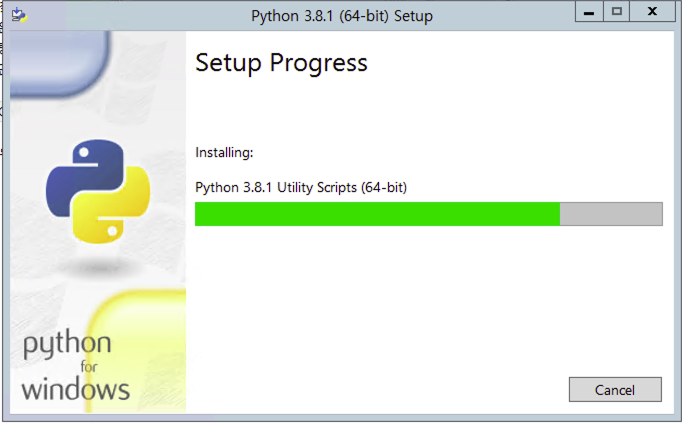
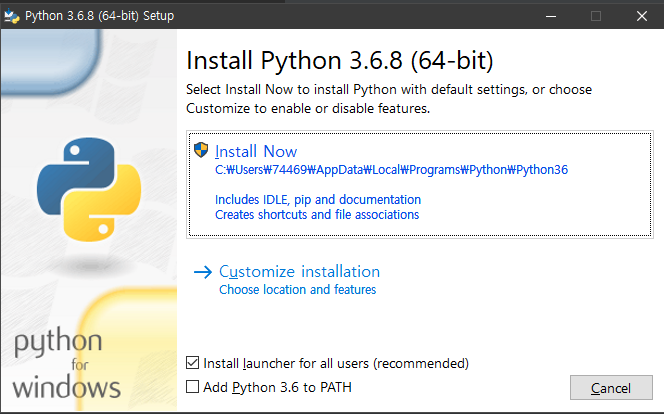
posting tensorflow 최초 반영

diff --git a/_posts/2020-02-05-ai-tensorflow001.md b/_posts/2020-02-05-ai-tensorflow001.md
@@ -1,24 +1,29 @@
 ---
-title: "TensorFlow - 01.구동환경"
+title: "TensorFlow2 - 01.설치"
 date: 2020-02-05 00:00:00 +0800
 categories: tensorflow
 sidebar:
   nav: "pe-sidebar"
 ---
-## 1. official site
-- 설치 관련 환경 체크 위함
-- [https://www.tensorflow.org/install/source-windows](https://www.tensorflow.org/install/source-windows)
+TensorFlow 활용을 위한 설치 가이드
 
-![tensorflow](/assets/images/tensorflow001.png)
+## 1. Environment
+TensorFlow2는 설치 환경 확인이 중요
+- Python 3.5-3.7
+- Window 7 or later
+- macOS 10.12.6 (Sierra) or later (no GPU support) <br>
 
-- CPU 와 GPU 버전에 맞는 Python 버전을 확인하고 설치하는 것이 관건
+참고: [https://www.tensorflow.org/install?hl=ko](https://www.tensorflow.org/install?hl=ko)
 
-## 2. Python
+## 2. Install Python
+
 - Window용 Python 3.5.x 또는 Python 3.6.x 64bit를 설치 [https://www.python.org/downloads/windows/](https://www.python.org/downloads/windows/)
-- 하지만 Pyhton.org의 Stable Releases는 3.8.1이라서 Python 3.8.1 다운로드 <br>
+- Pyhton.org의 Stable Releases는 3.8.1이지만 TensorFlow 호환성을 위해 Python 3.6.8 다운로드 <br>
+
 ![tensorflow](/assets/images/tensorflow002.png)
 
-- Window에 Python3.8.1 64bit 설치 화면
+- Window에 Python3.8.1 64bit 설치
+
 ![tensorflow](/assets/images/tensorflow003.png)
 
 - Python 버전 확인
@@ -29,9 +34,111 @@ Python 3.6.8
 C:\Windows\system32>
 ```
 
+<br>
+TensorFlow 설치 방식은 여러가지가 있습니다. 다음으로 TensorFlow 설치 방식 중 pip 활용 방식과 Anaconda 활용 방식을
+설명합니다.
+<br>
 
-## 3. IDE
-- Intellij
-- Python Plugin 설치
+## 3. Install TensorFlow2 - pip
+- 아래 참고 URL에 명시되어 있는 pip 명령어를 차례대로 수행
+
+![tensorflow](/assets/images/tensorflow007.png) <br>
+참고: [https://www.tensorflow.org/install?hl=ko](https://www.tensorflow.org/install?hl=ko)
+
+- pip upgrade 수행
+
+![tensorflow](/assets/images/tensorflow005.png)
+
+- pip 명령어를 통해 TensorFlow2 설치
+
+![tensorflow](/assets/images/tensorflow006.png)
+
+## 4. Install TensorFlow2 - Anaconda
+
+### 4.1 Install Anaconda
+- [Anaconda 다운로드](https://www.anaconda.com/distribution/)
+
+- Python 3.7 version 선택
+
+![tensorflow](/assets/images/tensorflow008.png)
+
+- 다운로드 된 .exe 파일을 **관리자 권한으로 실행**
+
+![tensorflow](/assets/images/tensorflow009.png)
+
+- 설치가 완료되면 Anaconda Prompt를 **관리자 권한으로 실행**
+
+![tensorflow](/assets/images/tensorflow010.png)
+
+### 4.2 Install TensorFlow2
+
+Anaconda 활용한 TensorFlow 설치는 3단계로 구성됨
+
+- 1단계: pip 업데이트
+
+```sh 
+python -m pip install --upgrade pip
+```
+
+![tensorflow](/assets/images/tensorflow011.png)
+
+- 2단계: tensorflow 생성
+
+```sh 
+conda create -n tensorflow python=3.6
+```
+
+![tensorflow](/assets/images/tensorflow012.png)
+
+- 3단계: tensorflow 활성화
+
+```sh
+activate tensorflow
+
+#프롬프트가 'tensorflow'로 바뀜
+(tensorflow) > pip install tensorflow
+```
+
+![tensorflow](/assets/images/tensorflow013.png)
+
+참고: [윈도우에 TensorFlow를 설치하는 쉬운 방법](https://brunch.co.kr/@mapthecity/15)
+
+## 5. Test TensorFlow
+- 다음 샘플 코드를 통해 Tensorflow 정상 동작 확인
+
+```sh 
+import tensorflow as tf
+with tf.compat.v1.Session() as sess:
+  h = tf.constant("Hello")
+  w = tf.constant("World")
+  hw = h + w
+  ans = sess.rin(hw)
+  print(ans)
+```
+
+{: .notice--warning}
+***Note*** 위 스크립트 작성시 with tf.compat.v1.Session() as sess: 다음 라인부터 반드시
+들여쓰기를 지켜야 합니다. 그렇지 않으면 "IndentationError: expected an indented block
+에러가 발생합니다.
+{: .notice--warning}
 
 
+- Tensorflow 샘플 코드 동작 중 아래 에러 발생시 조치 필요
+
+```sh
+ImportError: Could not find the DLL(s) 'msvcp140.dll or msvcp140_1.dll' ...
+```
+
+에러 조치를 위해 다음 경로에서 DLL 다운로드 및 설치합니다. <br>
+
+[DLL 다운로드 및 설치](https://support.microsoft.com/help/2977003/the-latest-supported-visual-c-downloads)
+
+![tensorflow](/assets/images/tensorflow014.png)
+
+- 스크립트 실행 결과
+
+```sh 
+b'HelloWorld'
+```
+
+참고: [파이썬 텐서플로 AttributeError 문제 해결](https://blog.naver.com/websearch/221763828445)
